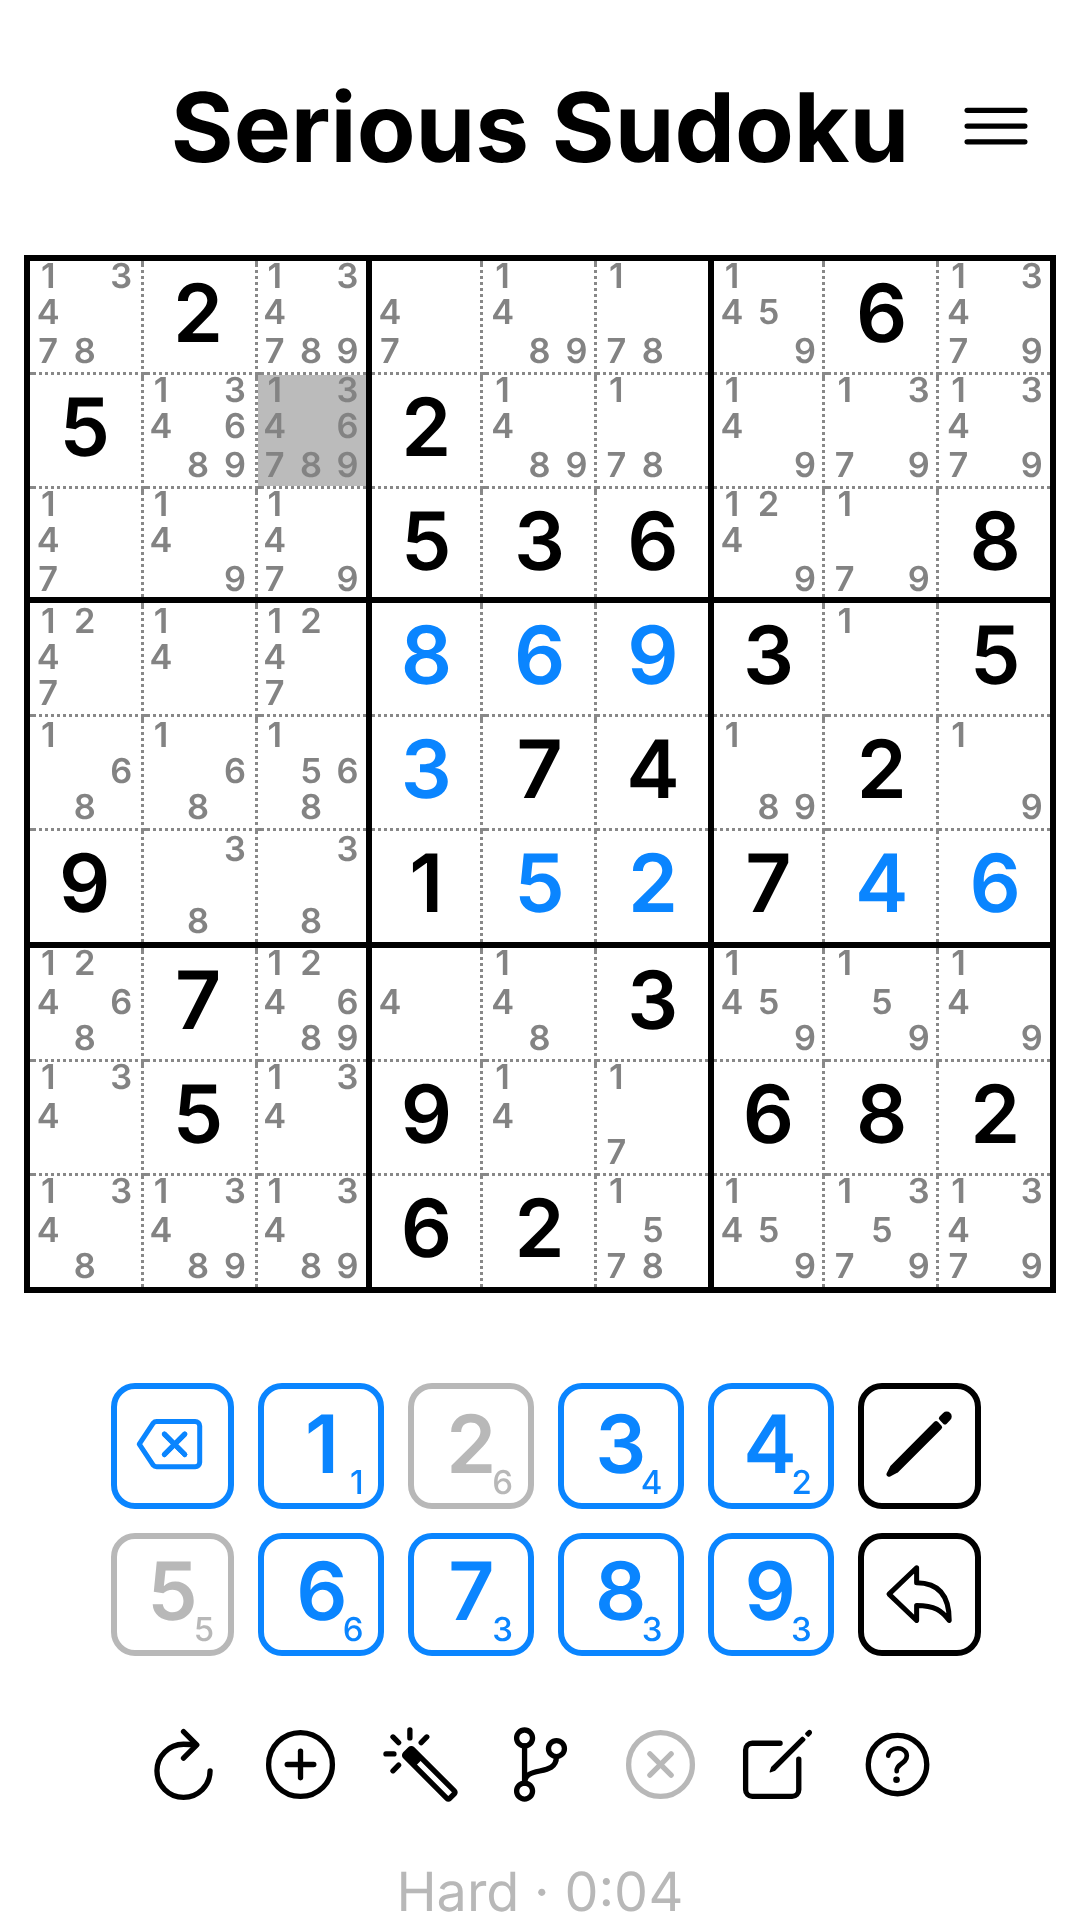
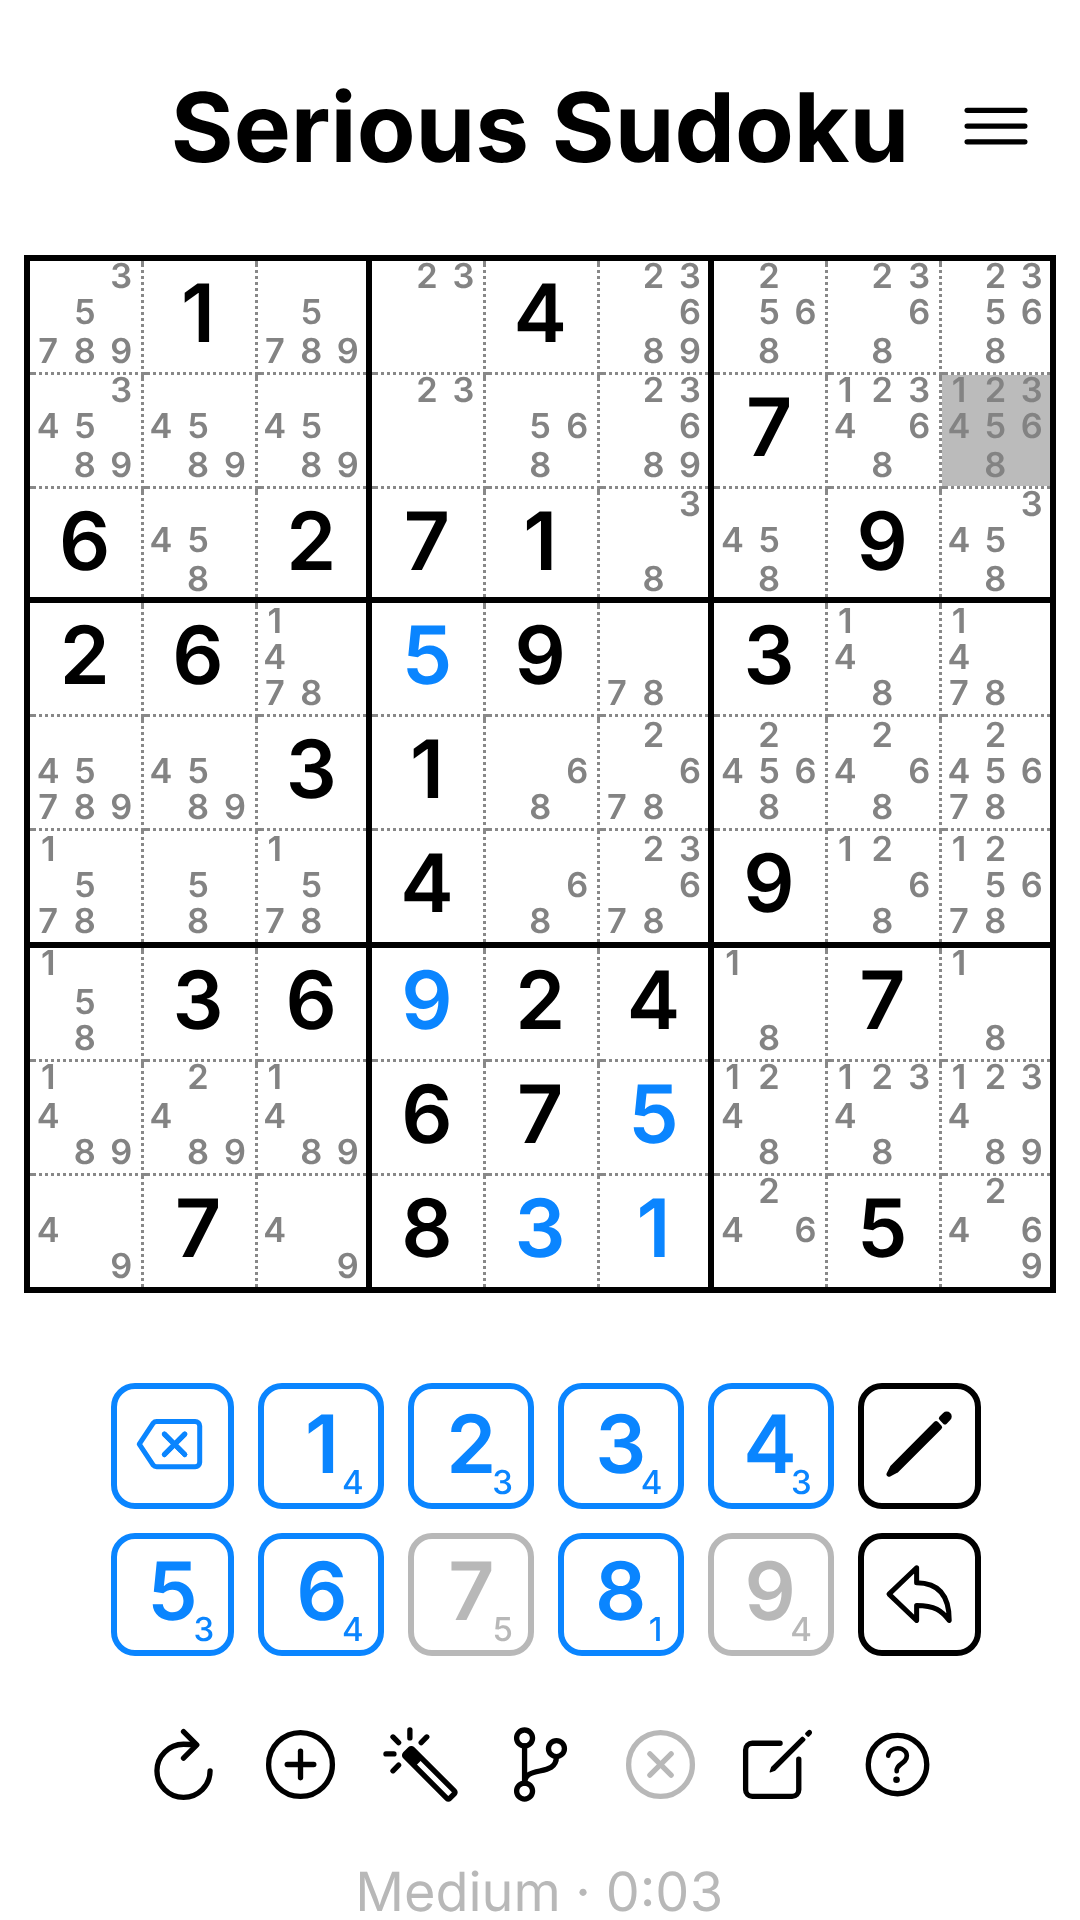
Default level Medium; screenshots with it
Claude-Session: https://claude.ai/code/session_019tPUdAuC1s5iG6GZtfpbmG

diff --git a/src/settings.ts b/src/settings.ts
@@ -15,7 +15,7 @@ export interface Settings {
 const SETTINGS_KEY = "serious-sudoku:settings:v1";
 
 export const settings: Settings = {
-  level: 3,
+  level: 2,
   theme: "auto",
   countAutoFill: false,
 };
